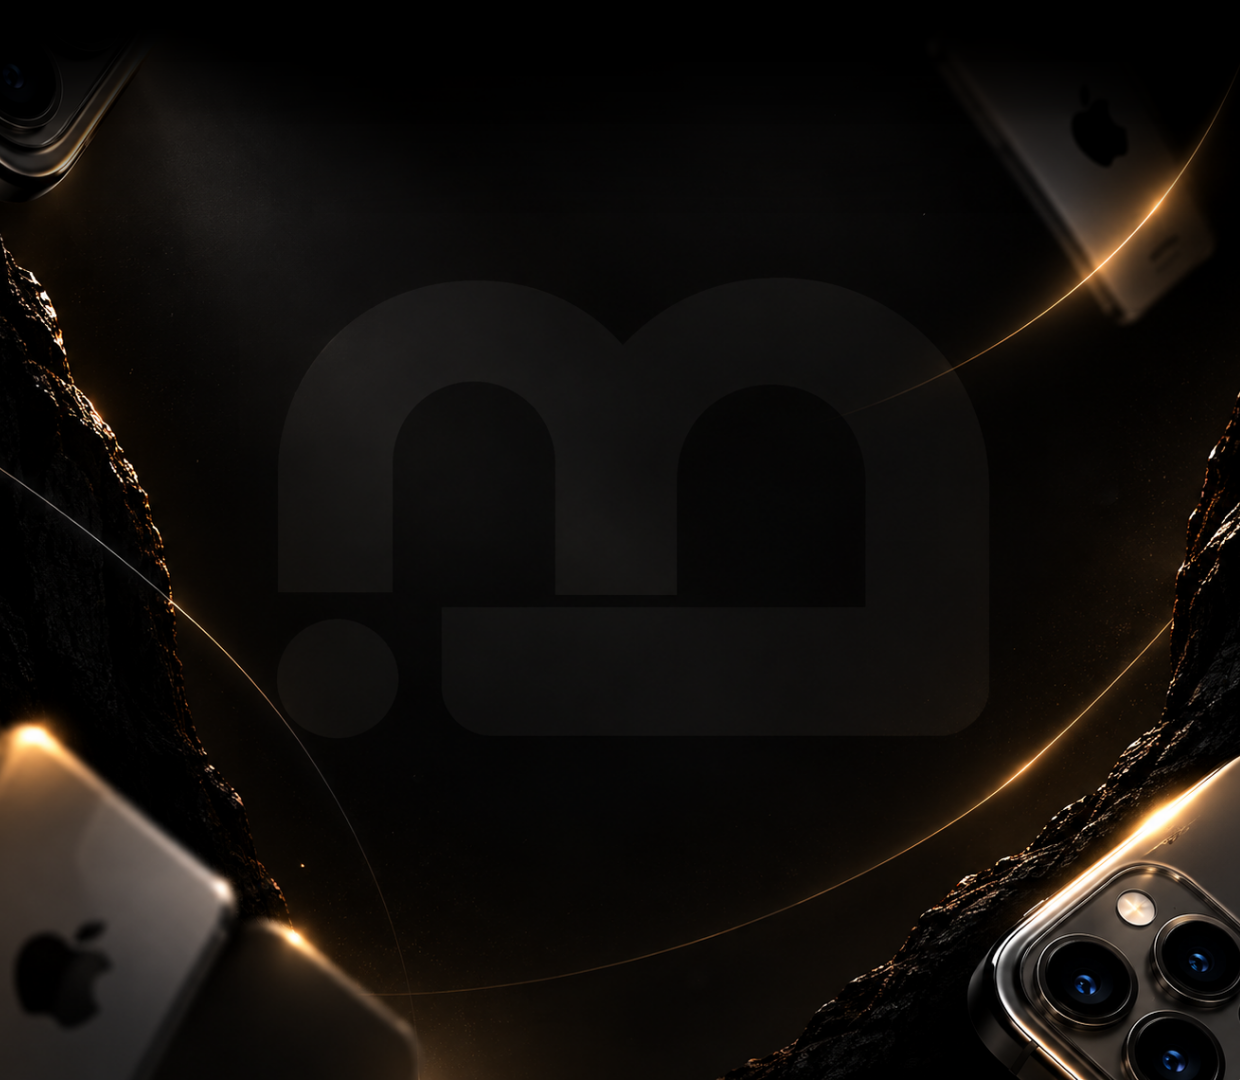
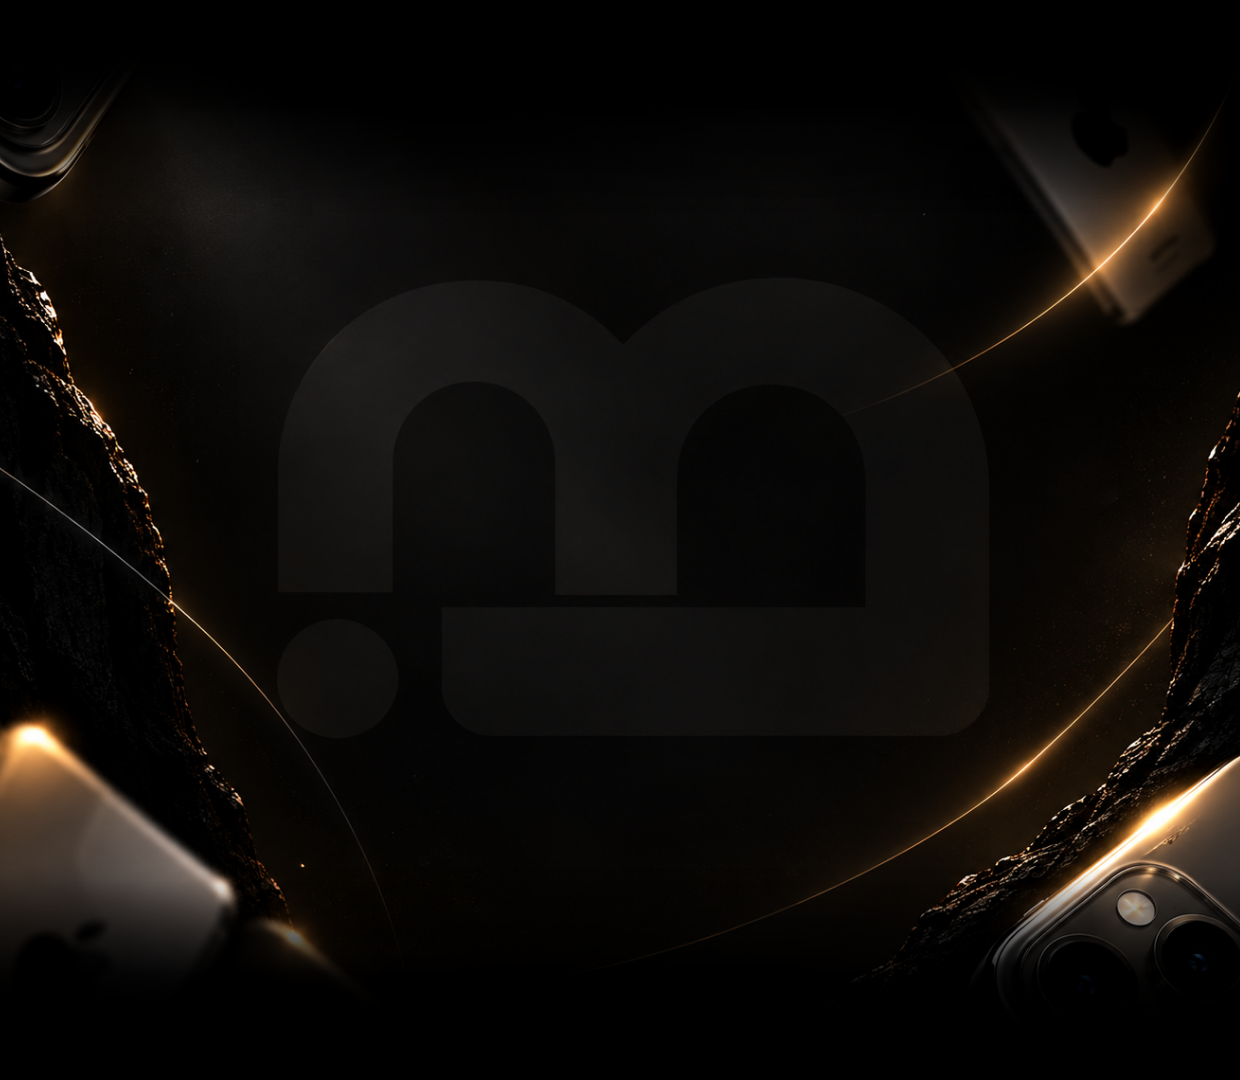
fixing and add feedback component

diff --git a/src/pages/home/Differential/Differential.jsx b/src/pages/home/Differential/Differential.jsx
@@ -35,7 +35,14 @@ function Differential(){
         <section id="differential">
             <div className="container">
                 <div className="differential-container">
+
+                    
+
                     <div className="differential-title" ref={titleRef}>
+                        <div className="eyebrow">
+                            NOSSOS DIFERENCIAIS
+                        </div>
+
                         <h1 className={`${showTitle ? "showTitle" : ""}`}>Encomende com segurança</h1>
 
                         <p className={`${showTitle ? "showTitle" : ""}`}>Comprar na Bettel é sem surpresas: você recebe o que foi combinado, registrado em contrato e entregue com segurança.</p>
@@ -49,7 +56,7 @@ function Differential(){
                                 </div>
 
                                 <div className="differentials-left">
-                                    <svg xmlns="http://www.w3.org/2000/svg" height="35px" viewBox="0 -960 960 960" width="35px" fill="  #13ff33"><path d="M354-120q-98 0-166-68t-68-166v-252q0-98 68-166t166-68h252q98 0 166 68t68 166v252q0 98-68 166t-166 68H354Zm85.33-203.33 240-240L632-610.67 439.33-418l-94-94L298-464.67l141.33 141.34ZM354-186.67h252q69.33 0 118.33-49t49-118.33v-252q0-69.33-49-118.33t-118.33-49H354q-69.33 0-118.33 49t-49 118.33v252q0 69.33 49 118.33t118.33 49ZM480-480Z"/></svg>
+                                    <svg xmlns="http://www.w3.org/2000/svg" height="40px" viewBox="0 -960 960 960" width="40px" fill="#13ff33"><path d="M436.67-344 664-571.33l-47-46.34-178.33 178.34-95.34-95.34L295-486.33 436.67-344ZM480-80.67q-139.67-35-229.83-161.5Q160-368.67 160-520.67v-240l320-120 320 120v240q0 152-90.17 278.5Q619.67-115.67 480-80.67Zm0-69.33q111.33-36.33 182.33-139.67 71-103.33 71-231v-193.66L480-809.67l-253.33 95.34v193.66q0 127.67 71 231Q368.67-186.33 480-150Zm0-330Z"/></svg>
                                 </div>
                                 
                                 <div className="differentials-right">
@@ -61,7 +68,7 @@ function Differential(){
 
                             <li className={`differentials-product ${showLi ? "showLi" : ""}`}>
                                 <div className="differentials-left">
-                                    <svg xmlns="http://www.w3.org/2000/svg" height="35px" viewBox="0 -960 960 960" width="35px" fill="#13ff33"><path d="M446.67-163.67V-461l-260-150.33V-314l260 150.33Zm66.66 0 260-150.33v-298l-260 151v297.33ZM446.67-87 153.33-256q-15.66-9-24.5-24.33-8.83-15.34-8.83-33.34v-332.66q0-18 8.83-33.34 8.84-15.33 24.5-24.33l293.34-169q15.66-9 33.33-9 17.67 0 33.33 9l293.34 169q15.66 9 24.5 24.33 8.83 15.34 8.83 33.34v332.66q0 18-8.83 33.34-8.84 15.33-24.5 24.33L513.33-87q-15.66 9-33.33 9-17.67 0-33.33-9Zm196-526 93.66-54L480-815.33 386-761l256.67 148ZM480-518l95.33-55.67-257-148.33L223-667l257 149Z"/></svg>
+                                    <svg xmlns="http://www.w3.org/2000/svg" height="40px" viewBox="0 -960 960 960" width="40px" fill="#13ff33"><path d="M446.67-163.67V-461l-260-150.33V-314l260 150.33Zm66.66 0 260-150.33v-298l-260 151v297.33ZM446.67-87 153.33-256q-15.66-9-24.5-24.33-8.83-15.34-8.83-33.34v-332.66q0-18 8.83-33.34 8.84-15.33 24.5-24.33l293.34-169q15.66-9 33.33-9 17.67 0 33.33 9l293.34 169q15.66 9 24.5 24.33 8.83 15.34 8.83 33.34v332.66q0 18-8.83 33.34-8.84 15.33-24.5 24.33L513.33-87q-15.66 9-33.33 9-17.67 0-33.33-9Zm196-526 93.66-54L480-815.33 386-761l256.67 148ZM480-518l95.33-55.67-257-148.33L223-667l257 149Z"/></svg>
                                 </div>
                                 
                                 <div className="differentials-right">
@@ -73,7 +80,7 @@ function Differential(){
 
                             <li className={`differentials-unboxing ${showLi ? "showLi" : ""}`}>
                                 <div className="differentials-left">
-                                    <svg xmlns="http://www.w3.org/2000/svg" height="35px" viewBox="0 -960 960 960" width="35px" fill="#13ff33"><path d="M160-80v-443.33H80v-233.34h216q-7-11-10.17-23.33-3.16-12.33-3.16-25.33 0-47.78 33.44-81.23Q349.56-920 397.33-920q23.67 0 45.34 9.5 21.66 9.5 37.33 27.17 15.67-18 37.33-27.34Q539-920 562.67-920q47.77 0 81.22 33.44 33.44 33.45 33.44 81.23 0 13-3.33 25.16-3.33 12.17-10 23.5h216v233.34h-80V-80H160Zm368.5-759.55q-13.83 13.79-13.83 34.17 0 20.38 13.78 34.21 13.79 13.84 34.17 13.84 20.38 0 34.21-13.79 13.84-13.79 13.84-34.17 0-20.38-13.79-34.21-13.79-13.83-34.17-13.83-20.38 0-34.21 13.78Zm-179.17 34.17q0 20.38 13.79 34.21 13.79 13.84 34.17 13.84 20.38 0 34.21-13.79 13.83-13.79 13.83-34.17 0-20.38-13.78-34.21-13.79-13.83-34.17-13.83-20.38 0-34.21 13.78-13.84 13.79-13.84 34.17ZM146.67-690v100h300v-100h-300Zm300 543.33v-376.66h-224v376.66h224Zm66.66 0h224v-376.66h-224v376.66Zm300-443.33v-100h-300v100h300Z"/></svg>
+                                    <svg xmlns="http://www.w3.org/2000/svg" height="40px" viewBox="0 -960 960 960" width="40px" fill="#13ff33"><path d="M160-80v-443.33H80v-233.34h216q-7-11-10.17-23.33-3.16-12.33-3.16-25.33 0-47.78 33.44-81.23Q349.56-920 397.33-920q23.67 0 45.34 9.5 21.66 9.5 37.33 27.17 15.67-18 37.33-27.34Q539-920 562.67-920q47.77 0 81.22 33.44 33.44 33.45 33.44 81.23 0 13-3.33 25.16-3.33 12.17-10 23.5h216v233.34h-80V-80H160Zm368.5-759.55q-13.83 13.79-13.83 34.17 0 20.38 13.78 34.21 13.79 13.84 34.17 13.84 20.38 0 34.21-13.79 13.84-13.79 13.84-34.17 0-20.38-13.79-34.21-13.79-13.83-34.17-13.83-20.38 0-34.21 13.78Zm-179.17 34.17q0 20.38 13.79 34.21 13.79 13.84 34.17 13.84 20.38 0 34.21-13.79 13.83-13.79 13.83-34.17 0-20.38-13.78-34.21-13.79-13.83-34.17-13.83-20.38 0-34.21 13.78-13.84 13.79-13.84 34.17ZM146.67-690v100h300v-100h-300Zm300 543.33v-376.66h-224v376.66h224Zm66.66 0h224v-376.66h-224v376.66Zm300-443.33v-100h-300v100h300Z"/></svg>
                                 </div>
                                 
                                 <div className="differentials-right">
@@ -85,7 +92,7 @@ function Differential(){
 
                             <li className={`differentials-service ${showLi ? "showLi" : ""}`}>
                                 <div className="differentials-left">
-                                    <svg xmlns="http://www.w3.org/2000/svg" height="35px" viewBox="0 -960 960 960" width="35px" fill="#13ff33"><path d="M880-80.67 720.67-240h-414q-27.5 0-47.09-19.58Q240-279.17 240-306.67v-66.66h440q27.5 0 47.08-19.59 19.59-19.58 19.59-47.08v-280h66.66q27.5 0 47.09 19.58Q880-680.83 880-653.33v572.66ZM146.67-441l65.66-65.67h401v-306.66H146.67V-441ZM80-280v-533.33q0-27.5 19.58-47.09Q119.17-880 146.67-880h466.66q27.5 0 47.09 19.58Q680-840.83 680-813.33v306.66q0 27.5-19.58 47.09Q640.83-440 613.33-440H240L80-280Zm66.67-226.67v-306.66 306.66Z"/></svg>
+                                    <svg xmlns="http://www.w3.org/2000/svg" height="40px" viewBox="0 -960 960 960" width="40px" fill="#13ff33"><path d="M481.33-40v-66.67h292V-156h-152v-304h152v-58.67Q773.33-640 688-727q-85.33-87-206.67-87-121.33 0-208 87-86.66 87-86.66 208.33V-460h152v304h-152q-27 0-46.84-19.83Q120-195.67 120-222.67v-296q0-74.49 28.5-140.42Q177-725.02 226-774.34q49-49.33 114.97-77.83t140.5-28.5q74.53 0 140.03 28.5t113.87 77.83q48.37 49.32 76.5 115.25Q840-593.16 840-518.67v412q0 27-19.83 46.84Q800.33-40 773.33-40h-292ZM186.67-222.67H272v-170.66h-85.33v170.66Zm501.33 0h85.33v-170.66H688v170.66ZM186.67-393.33H272h-85.33Zm501.33 0h85.33H688Z"/></svg>
                                 </div>
                                 
                                 <div className="differentials-right">

diff --git a/src/pages/home/Differential/differential.css b/src/pages/home/Differential/differential.css
@@ -1,18 +1,18 @@
 #differential{
     min-height: 900px;
-    background:
-    radial-gradient(
-        circle at bottom left,
-        #68d33754,
-        transparent 45%
-    ),
-    radial-gradient(
-        circle at bottom right,
-        #68d33754,
-        transparent 45%
-    ),
-    #454444a3;
+
+    background-image: url('../../../assets/background/differential-background-image-1920x1080.png');
+    background-position: center;
+    background-repeat: no-repeat;
+    background-size: cover;
+
+    object-fit: cover;
+    object-position: center;
+
     overflow: hidden;
+
+    --differential-li-border-radius: 10px;
+    --differential-emphasis-green: #13ff33;
 }
 
 .differential-container{
@@ -37,16 +37,22 @@
 
         text-align: center;
 
+        .eyebrow{
+            border-color: #0179115d;
+            box-shadow: var(--eyebrow-box-shadow) #0179115d;
+            color: #01791181;
+        }
+
         h1{
             font-size: 36px;
             font-weight: bold;
             opacity: 0;
 
             background: linear-gradient(65deg, 
-            rgb(32, 207, 16) 0%,
-            white 40%,
+            rgb(11, 110, 2) 0%,
             white 60%,
-            rgb(32, 207, 16) 100%);
+            white 60%,
+            rgb(11, 110, 2) 100%);
 
             background-clip: text;
             -webkit-background-clip: text;
@@ -56,8 +62,8 @@
             color: transparent;
         }
 
-        p{
-            font-size: 18px;
+        >p{
+            font-size: 16px;
             opacity: 0;
 
             transform: translateY(200%);
@@ -100,14 +106,14 @@
                 padding: 20px 18px;
 
                 border: solid 1px rgba(228, 231, 227, 0.349);
-                border-radius: 10px;
+                border-radius: var(--differential-li-border-radius);
                 box-shadow: 0px 0px 10px 5px rgba(0, 0, 0, 0.516);
 
                 background: linear-gradient(45deg, 
-                rgba(24, 22, 22, 0.664) 15%,
-                rgba(102, 101, 101, 0.747) 40%,
-                rgba(222, 222, 222, 0.432) 80%,
-                rgb(37, 36, 36) 100%
+                rgba(24, 22, 22, 0.37) 15%,
+                rgba(102, 101, 101, 0.418) 40%,
+                rgba(222, 222, 222, 0.199) 80%,
+                rgba(37, 36, 36, 0.384) 100%
                 );
 
                 filter: blur(10px);
@@ -142,7 +148,7 @@
                 }
 
                 &.green-border{
-                    border: solid 1px #13ff33;
+                    border: solid 1px #039216;
                 }
 
                 .more-differential-tag{
@@ -157,10 +163,10 @@
                     letter-spacing: 1px;
 
                     color: rgb(79, 80, 80);
-                    background-color: #13ff33;
-                    box-shadow: 0px 0px 20px 2px #13ff33 ;
+                    background-color: #01c91c;
+                    box-shadow: 0px 0px 20px 2px var(--differential-emphasis-green);
                     
-                    border-radius: 0 10px 0 10px;
+                    border-radius: 0 var(--differential-li-border-radius) 0 var(--differential-li-border-radius);
                     
                 }
                 
@@ -171,7 +177,7 @@
 
                     padding: 10px;
 
-                    border-radius: 16px;
+                    border-radius: 30px;
 
                     background-color: rgba(60, 201, 0, 0.199);
 
@@ -223,11 +229,18 @@
     }
 }
 
-@media(max-width: 1040px){
-    
+@media(max-width: 1240px){
+    #differential{
+        background-image: url('../../../assets/background/differential-background-image-1240x1080.png');
+    }
 }
 
-@media(max-width: 730px){
+@media(max-width: 760px){
+
+    #differential{
+        background-image: url('../../../assets/background/differential-background-image-760x1080.png');
+    }
+
     .differential-container{
 
         .differential-title{
@@ -274,8 +287,8 @@
                         letter-spacing: 1px;
 
                         color: rgb(62, 63, 63);
-                        background-color: #13ff33;
-                        box-shadow: 0px 0px 20px 2px #13ff33;
+                        background-color: var(--differential-emphasis-green);
+                        box-shadow: 0px 0px 20px 2px var(--differential-emphasis-green);
                         
                         border-radius: 0 10px 0 10px;
                         

diff --git a/src/pages/home/Feedback/feedback.css b/src/pages/home/Feedback/feedback.css
@@ -1,0 +1,88 @@
+#feedback{
+    background-image: url('../../../assets/background/feedback-background-image-1920x1080.png');
+    background-position: center;
+    background-repeat: no-repeat;
+    background-size: cover;
+    
+    object-fit: cover;
+    object-position: center;
+}
+
+.feedback-container{
+    display: flex;
+    justify-content: center;
+    align-items: center;
+
+    height: 100%;
+
+    margin: 0 24px;
+    
+    color: aliceblue;
+
+    .feedback-title-container{
+        display: flex;
+        flex-direction: column;
+        justify-content: center;
+        align-items: center;
+        gap: 16px;
+
+        text-align: center;
+        
+        .eyebrow{
+            border-color: rgba(168, 168, 168, 0.623);
+            box-shadow: var(--eyebrow-box-shadow) rgba(168, 168, 168, 0.623);
+            color: rgba(168, 168, 168, 0.623);
+        }
+
+        h1{
+            font-size: 36px;
+
+            .light-text{
+            }
+
+            .bold-text{
+                background: linear-gradient(95deg, 
+                rgb(243, 240, 240) 0%,
+                rgb(180, 179, 179) 30%,
+                rgb(150, 147, 147) 50%,
+                rgb(82, 81, 81) 90%,
+                rgb(41, 41, 41)100%);
+                background-clip: text;
+                -webkit-background-clip: text;
+                
+                color: transparent;
+                font-weight: 900;
+            }
+        }
+
+    }
+}
+
+
+
+
+@media(max-width: 1240px){
+    #feedback{
+        background-image: url('../../../assets/background/feedback-background-image-1240x1080.png');
+    }
+}
+
+@media(max-width: 760px){
+    #feedback{
+        background-image: url('../../../assets/background/feedback-background-image-760x1080.png');
+    }
+
+    .feedback-container{
+
+        .feedback-title-container{
+
+            h1{
+                text-align: center;
+                font-size: 30px;
+            }
+
+
+
+        }
+    }
+}

diff --git a/src/pages/home/Feedback/Feedback.jsx b/src/pages/home/Feedback/Feedback.jsx
@@ -1,0 +1,27 @@
+import "./feedback.css";
+
+function Feedback(){
+    return(
+        <section id="feedback">
+            <div className="container">
+                <div className="feedback-container">
+                    <div className="feedback-title-container">
+
+                        <div className="eyebrow">
+                            FEEDBACKS
+                        </div>
+
+                        <h1>
+                            <span className="light-text">Quem compra, </span>
+                            <span className="bold-text">recomenda.</span>
+                        </h1>
+
+                        <p>Clientes satisfeitos são a nossa melhor prova. Veja o que quem já comprou com a Bettel está dizendo.</p>
+                    </div>
+                </div>
+            </div>
+        </section>
+    )
+}
+
+export default Feedback;

diff --git a/src/index.css b/src/index.css
@@ -6,6 +6,8 @@
     box-sizing: border-box;
     font-family: "Inter", sans-serif;
     scroll-behavior: smooth;
+    
+    --eyebrow-box-shadow: 0 0 10px 2px;
 }
 
 html{
@@ -22,4 +24,21 @@ section{
     max-width: 1170px;
     height: 100%;
     margin: 0 auto;
+}
+
+.eyebrow{
+    display: inline-block;
+    padding: 5px 15px;
+
+    background-color: transparent;
+    border: solid 2px #ffffff5d;
+    border-radius: 30px;
+    box-shadow: var(--eyebrow-box-shadow) #ffffff5d;
+
+    text-align: center;
+            
+    color: #ffffff5d;
+    font-size: 10px;
+    font-weight: 600;
+    letter-spacing: 2px;
 }

diff --git a/src/pages/home/Home.jsx b/src/pages/home/Home.jsx
@@ -4,6 +4,7 @@ import Hero from "./Hero/Hero";
 import About from "./About/About";
 import Products from "./Products/Products";
 import Differential from "./Differential/Differential";
+import Feedback from "./Feedback/Feedback";
 
 function Home(){
     return(
@@ -14,6 +15,7 @@ function Home(){
             <About/>
             {/* <Products/> */}
             <Differential/>
+            <Feedback/>
 
             <Footer/>
         </div>

diff --git a/src/pages/home/Products/Products.jsx b/src/pages/home/Products/Products.jsx
@@ -4,7 +4,9 @@ function Products(){
     return(
         <section id="products">
             <div className="container">
-                
+                <div className="products-container">
+                    a
+                </div>
             </div>
         </section>
     )

diff --git a/src/pages/home/About/about.css b/src/pages/home/About/about.css
@@ -140,7 +140,7 @@
     h1{
         opacity: 0;
 
-        font-size: 40px;
+        font-size: 36px;
 
         margin-bottom: 20px;
     

diff --git a/src/pages/home/Products/Products.css b/src/pages/home/Products/Products.css
@@ -1,4 +1,8 @@
 #products{
+    height: 100%;
+    
+    margin: 0 24px;
+
     background-color: rgb(100, 100, 100);
 }
 
